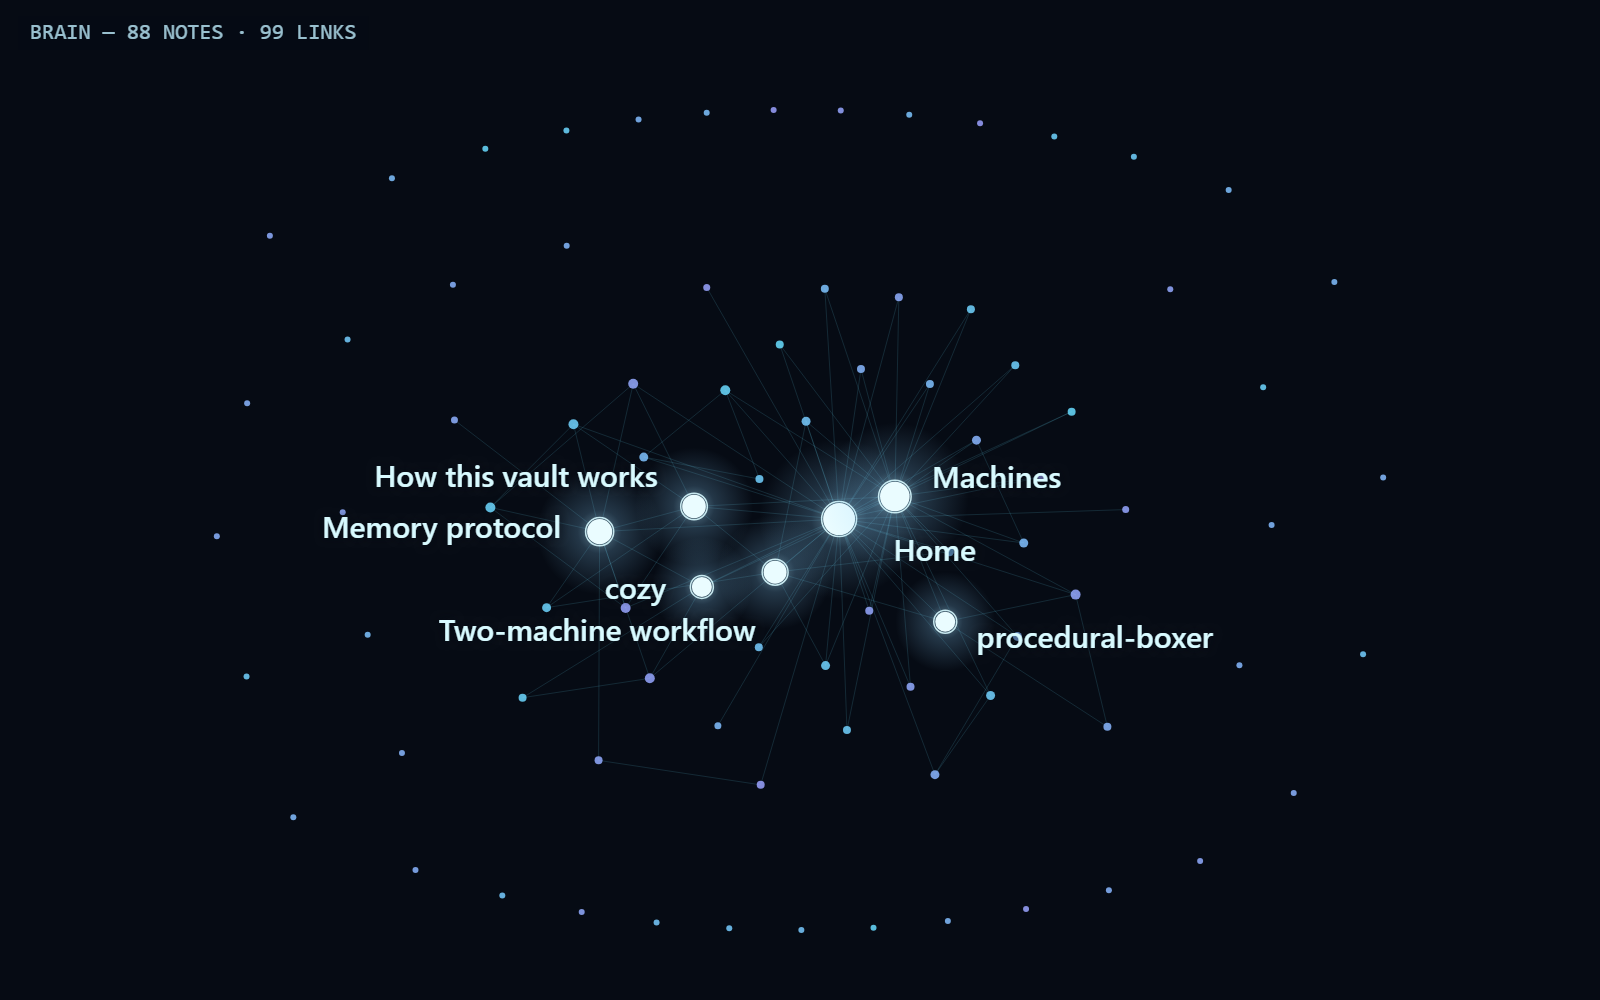
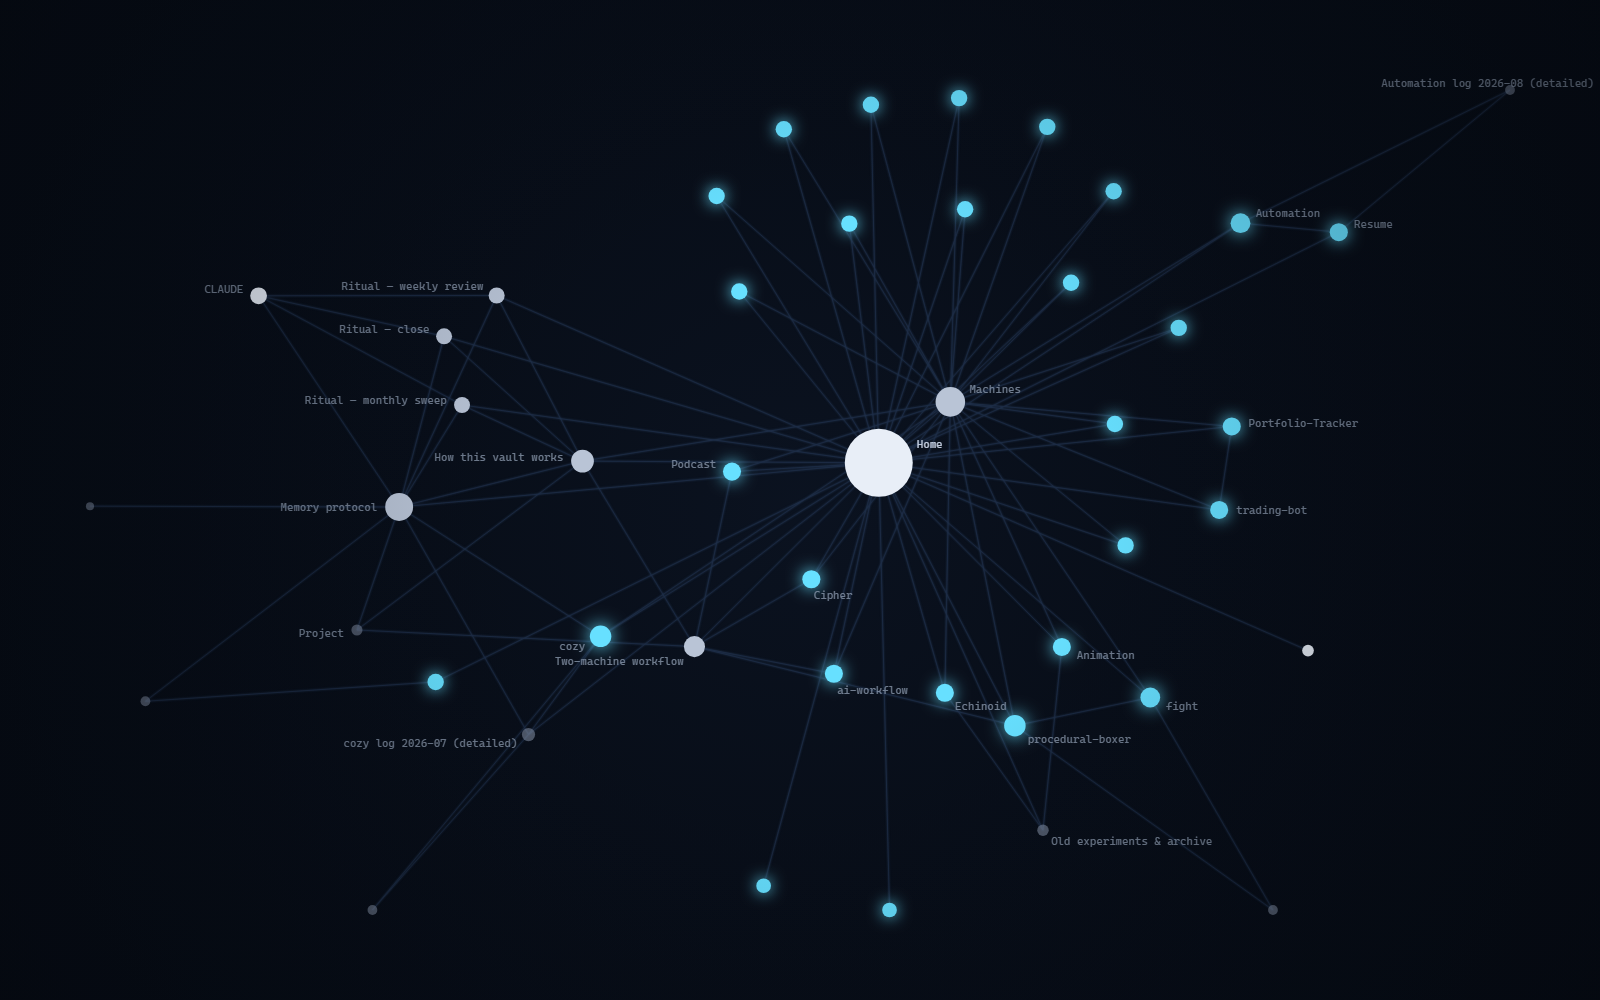
feat: image galleries on every project card
Cards now carry an images[] set: arrows + n/m counter page through them,
clicking expands into a lightbox (Escape/arrow keys, backdrop close,
scroll lock restored on exit). Visit-live links and the terminal branch
are gone from the card and the Project type by operator call.

Image sets show each project's best distinct capabilities: Drydock adds
the automation detail sheet, trust-stack leads with the new flight
console over the capability grid, FIGHT adds the Film Room replay and
mode select, Mivora adds the Bit-vs-Qubit lesson page, Document
Intelligence keeps the dense pipeline diagram behind a legible overview,
Echinoid adds the photo-to-ID process, Pizza leads with the home page
over the menu and catering shots. Brain stays the original vault graph
the operator prefers. Pizza's home capture opens the card by request.

diff --git a/src/lib/content.ts b/src/lib/content.ts
@@ -1,3 +1,5 @@
+export type ProjectImage = { src: string; alt: string; width: number; height: number };
+
 export type Project = {
   name: string;
   badge: "live" | "client build" | "open source" | "local-first" | "in development" | "plugin";
@@ -5,9 +7,10 @@ export type Project = {
   description: string;
   points: string[];
   stack: string[];
-  image?: { src: string; alt: string; width: number; height: number };
-  terminal?: string[];
-  liveUrl?: string;
+  // Card gallery: first image leads; arrows page through the rest, and any
+  // image expands to a lightbox on click (dense diagrams go later in the
+  // list — they're meant to be read expanded).
+  images: ProjectImage[];
   repoUrl?: string;
   note?: string;
 };
@@ -40,7 +43,10 @@ export const projects: Project[] = [
       "3,500+ automated tests, green — including an adversarial check that sensitive runs have no network rail reachable",
     ],
     stack: ["Electron", "TypeScript", "React", "Chrome MV3", "Windows UIA", "Ollama", "Claude Code"],
-    image: { src: "/projects/drydock.png", alt: "Drydock — automation run timeline with token and cost receipt", width: 2000, height: 1030 },
+    images: [
+      { src: "/projects/drydock.png", alt: "Drydock — automation run timeline with token and cost receipt", width: 2000, height: 1030 },
+      { src: "/projects/drydock-editor.png", alt: "Drydock — an automation's detail sheet: when it runs, which files it reads, what you get, allowed tools, and past runs, with the 'Claude never sees it' privacy badge", width: 2000, height: 1032 },
+    ],
     note: "Private build — ask me for a walkthrough.",
   },
   {
@@ -56,12 +62,20 @@ export const projects: Project[] = [
       "Maker–checker separation: a fresh-context agent reviews what the builder produced, and it has caught real bypasses",
     ],
     stack: ["Node", "Claude Code", "Hooks API", "Zero dependencies"],
-    image: {
-      src: "/projects/truststack.png",
-      alt: "trust-stack capability grid — STOPS: --no-verify becomes a question; ROUTES: low risk merges, high risk waits; CHECKS: catches bypasses humans miss; REMEMBERS: every decision permanently logged. Flight rules for AI coding agents.",
-      width: 1600,
-      height: 780,
-    },
+    images: [
+      {
+        src: "/projects/truststack.png",
+        alt: "trust-stack flight console — an agent action falls through the skills field (advice) into the hooks wall (physics), splitting to auto-merge or human approval, with the capability list alongside.",
+        width: 1600,
+        height: 780,
+      },
+      {
+        src: "/projects/truststack-grid.png",
+        alt: "trust-stack capability grid — STOPS: --no-verify becomes a question; ROUTES: low risk merges, high risk waits; CHECKS: catches bypasses humans miss; REMEMBERS: every decision permanently logged.",
+        width: 1600,
+        height: 780,
+      },
+    ],
   },
   {
     name: "FIGHT — Shadow League",
@@ -76,7 +90,11 @@ export const projects: Project[] = [
       "Loadout economy with an equip/store/workshop hub and a live 3D preview of every move you touch",
     ],
     stack: ["Next.js", "React", "TypeScript", "Three.js", "Tailwind", "Python (CV pipeline)"],
-    image: { src: "/projects/fight.png", alt: "FIGHT — Shadow League in-game bout with broadcast HUD", width: 1600, height: 880 },
+    images: [
+      { src: "/projects/fight.png", alt: "FIGHT — Shadow League in-game bout with broadcast HUD", width: 1600, height: 880 },
+      { src: "/projects/fight-film.png", alt: "FIGHT — Film Room: a captured shadow replayed on a 3D fighter under the spotlight, with playback scrubber and speed controls", width: 1600, height: 1000 },
+      { src: "/projects/fight-menu.png", alt: "FIGHT — mode select: Fight, Loadout, Practice, Watch, Training, and Physics Lab over the empty ring", width: 1600, height: 1000 },
+    ],
     note: "Async tournaments are the next milestone.",
   },
   {
@@ -92,8 +110,10 @@ export const projects: Project[] = [
       "Runs at $0: static site + Supabase, zero runtime LLM calls",
     ],
     stack: ["TypeScript", "React", "Vite", "Supabase", "ts-fsrs", "Vercel"],
-    image: { src: "/projects/mivora.png", alt: "Mivora home page — gamified AI skill tracks", width: 1600, height: 1000 },
-    liveUrl: "https://mivoralearn.com",
+    images: [
+      { src: "/projects/mivora.png", alt: "Mivora home page — gamified AI skill tracks", width: 1600, height: 1000 },
+      { src: "/projects/mivora-lesson.png", alt: "Mivora lesson page — Bit vs. Qubit, lesson 1 of the Quantum Computing track", width: 1600, height: 1000 },
+    ],
   },
   {
     name: "Document Intelligence",
@@ -108,7 +128,10 @@ export const projects: Project[] = [
       "Refuses to answer when the sources don't contain it — no confident hallucination path",
     ],
     stack: ["Python", "PyMuPDF", "Tesseract", "Sentence-Transformers", "FAISS", "OpenAI", "Gradio"],
-    image: { src: "/projects/rag.png", alt: "Document Intelligence — five-stage RAG pipeline: ingest, chunk, embed, retrieve, generate", width: 1600, height: 1000 },
+    images: [
+      { src: "/projects/rag.png", alt: "Document Intelligence — five-stage RAG pipeline: ingest, chunk, embed, retrieve, generate", width: 1600, height: 1000 },
+      { src: "/projects/rag-detail.png", alt: "Document Intelligence — detailed architecture with per-stage internals, fallbacks, and model choices (expand to read)", width: 1600, height: 1000 },
+    ],
     repoUrl: "https://github.com/Awalker77s/Document-Intelligence-Pipeline",
   },
   {
@@ -124,7 +147,9 @@ export const projects: Project[] = [
       "The graph you're looking at is the real vault, rendered from its actual wikilinks",
     ],
     stack: ["Obsidian", "Markdown", "Git", "Claude Code"],
-    image: { src: "/projects/brain.png", alt: "Brain — force-directed graph of the real vault: 88 notes, 99 links, hubs labeled (Home, Machines, Memory protocol)", width: 1600, height: 1000 },
+    images: [
+      { src: "/projects/brain.png", alt: "Brain — force-directed graph of the real Obsidian vault", width: 1600, height: 1000 },
+    ],
   },
   {
     name: "Echinoid ID",
@@ -139,8 +164,10 @@ export const projects: Project[] = [
       "3 free IDs, then Stripe-billed Pro",
     ],
     stack: ["TypeScript", "React", "Supabase", "Edge Functions", "OpenAI", "Stripe"],
-    image: { src: "/projects/echinoid.png", alt: "Echinoid ID — fossil identification interface", width: 1600, height: 965 },
-    liveUrl: "https://echinoid-ui.vercel.app",
+    images: [
+      { src: "/projects/echinoid.png", alt: "Echinoid ID — fossil identification interface", width: 1600, height: 965 },
+      { src: "/projects/echinoid-how.png", alt: "Echinoid ID — how it works: upload photos, add field details, analyze features, compare", width: 1600, height: 1000 },
+    ],
   },
   {
     name: "Mother Truckin' Pizza",
@@ -154,8 +181,11 @@ export const projects: Project[] = [
       "Dual-mode data layer — Supabase in production, localStorage for local dev",
     ],
     stack: ["React", "Vite", "Tailwind", "Supabase", "Resend", "Vercel"],
-    image: { src: "/projects/pizza.png", alt: "Mother Truckin' Pizza — menu page", width: 1600, height: 765 },
-    liveUrl: "https://mother-truckin-pizza.vercel.app",
+    images: [
+      { src: "/projects/pizza-home.png", alt: "Mother Truckin' Pizza — home page hero with photo collage and stats (10+ years rolling, 500+ events catered)", width: 1600, height: 1000 },
+      { src: "/projects/pizza.png", alt: "Mother Truckin' Pizza — menu page", width: 1600, height: 765 },
+      { src: "/projects/pizza-catering.png", alt: "Mother Truckin' Pizza — catering page with wedding, corporate, party, and festival service cards", width: 1600, height: 1000 },
+    ],
   },
 ];
 

diff --git a/src/components/ProjectCard.tsx b/src/components/ProjectCard.tsx
@@ -1,32 +1,81 @@
+"use client";
+
 import Image from "next/image";
+import { useCallback, useEffect, useState } from "react";
 import type { Project } from "@/lib/content";
 
+const arrowButton =
+  "pointer-events-auto flex h-9 w-9 items-center justify-center rounded-full border border-edge bg-background/70 text-lg leading-none text-muted backdrop-blur transition-colors hover:border-accent/40 hover:text-accent";
+
 export default function ProjectCard({ project, flip }: { project: Project; flip: boolean }) {
+  const images = project.images;
+  const count = images.length;
+  const [index, setIndex] = useState(0);
+  const [expanded, setExpanded] = useState(false);
+  const current = images[Math.min(index, count - 1)];
+
+  const step = useCallback(
+    (delta: number) => setIndex((previous) => (previous + delta + count) % count),
+    [count],
+  );
+
+  // While the lightbox is open: freeze page scroll (the wheel smoother
+  // writes scrollTo, which no-ops under overflow:hidden) and take over the
+  // keyboard for navigation.
+  useEffect(() => {
+    if (!expanded) return;
+    const root = document.documentElement;
+    const previousOverflow = root.style.overflow;
+    root.style.overflow = "hidden";
+    const onKey = (event: KeyboardEvent) => {
+      if (event.key === "Escape") setExpanded(false);
+      if (event.key === "ArrowRight") step(1);
+      if (event.key === "ArrowLeft") step(-1);
+    };
+    window.addEventListener("keydown", onKey);
+    return () => {
+      root.style.overflow = previousOverflow;
+      window.removeEventListener("keydown", onKey);
+    };
+  }, [expanded, step]);
+
   return (
     <article
       className={`flex flex-col gap-8 rounded-xl border border-edge bg-surface p-6 md:items-center md:p-8 ${
         flip ? "md:flex-row-reverse" : "md:flex-row"
       }`}
     >
-      <div className="md:w-1/2">
-        {project.terminal ? (
-          <div className="rounded-lg border border-edge bg-background/80 p-5 font-mono text-xs leading-relaxed text-muted">
-            {project.terminal.map((line) => (
-              <div key={line} className={line.startsWith("$") ? "text-accent" : undefined}>
-                {line}
-              </div>
-            ))}
-          </div>
-        ) : project.image ? (
+      <div className="relative md:w-1/2">
+        <button
+          type="button"
+          onClick={() => setExpanded(true)}
+          aria-label={`Expand ${project.name} image`}
+          className="block w-full cursor-zoom-in"
+        >
           <Image
-            src={project.image.src}
-            alt={project.image.alt}
-            width={project.image.width}
-            height={project.image.height}
+            src={current.src}
+            alt={current.alt}
+            width={current.width}
+            height={current.height}
             sizes="(min-width: 768px) 50vw, 100vw"
             className="w-full rounded-lg border border-edge"
           />
-        ) : null}
+        </button>
+        {count > 1 && (
+          <>
+            <div className="pointer-events-none absolute inset-y-0 left-2 right-2 flex items-center justify-between">
+              <button type="button" onClick={() => step(-1)} aria-label="Previous image" className={arrowButton}>
+                ‹
+              </button>
+              <button type="button" onClick={() => step(1)} aria-label="Next image" className={arrowButton}>
+                ›
+              </button>
+            </div>
+            <span className="absolute bottom-2 right-3 rounded-full border border-edge bg-background/70 px-2 py-0.5 font-mono text-[10px] text-faint backdrop-blur">
+              {index + 1} / {count}
+            </span>
+          </>
+        )}
       </div>
       <div className="md:w-1/2">
         <div className="flex flex-wrap items-center gap-3">
@@ -60,16 +109,6 @@ export default function ProjectCard({ project, flip }: { project: Project; flip:
           ))}
         </div>
         <div className="mt-5 flex flex-wrap items-center gap-x-5 gap-y-2 text-sm">
-          {project.liveUrl && (
-            <a
-              href={project.liveUrl}
-              target="_blank"
-              rel="noreferrer"
-              className="font-medium text-accent hover:underline"
-            >
-              Visit live ↗
-            </a>
-          )}
           {project.repoUrl && (
             <a
               href={project.repoUrl}
@@ -83,6 +122,50 @@ export default function ProjectCard({ project, flip }: { project: Project; flip:
           {project.note && <span className="text-faint">{project.note}</span>}
         </div>
       </div>
+
+      {expanded && (
+        <div
+          role="dialog"
+          aria-modal="true"
+          aria-label={`${project.name} image viewer`}
+          className="fixed inset-0 z-[100] flex flex-col items-center justify-center bg-black/85 p-4 backdrop-blur-sm"
+          onClick={() => setExpanded(false)}
+          onWheel={(event) => event.stopPropagation()}
+        >
+          <button
+            type="button"
+            onClick={() => setExpanded(false)}
+            aria-label="Close image viewer"
+            className="absolute right-4 top-4 flex h-10 w-10 items-center justify-center rounded-full border border-edge bg-background/70 text-lg text-muted transition-colors hover:text-accent"
+          >
+            ✕
+          </button>
+          <div className="flex max-h-full max-w-full flex-col items-center" onClick={(event) => event.stopPropagation()}>
+            <Image
+              src={current.src}
+              alt={current.alt}
+              width={current.width}
+              height={current.height}
+              sizes="92vw"
+              className="h-auto max-h-[82vh] w-auto max-w-[92vw] rounded-lg border border-edge object-contain"
+            />
+            <p className="mt-3 max-w-3xl text-center text-xs leading-relaxed text-muted">{current.alt}</p>
+            {count > 1 && (
+              <div className="mt-3 flex items-center gap-4">
+                <button type="button" onClick={() => step(-1)} aria-label="Previous image" className={arrowButton}>
+                  ‹
+                </button>
+                <span className="font-mono text-xs text-faint">
+                  {index + 1} / {count}
+                </span>
+                <button type="button" onClick={() => step(1)} aria-label="Next image" className={arrowButton}>
+                  ›
+                </button>
+              </div>
+            )}
+          </div>
+        </div>
+      )}
     </article>
   );
 }
